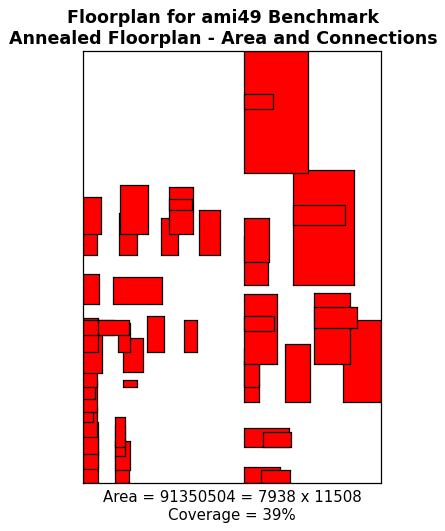
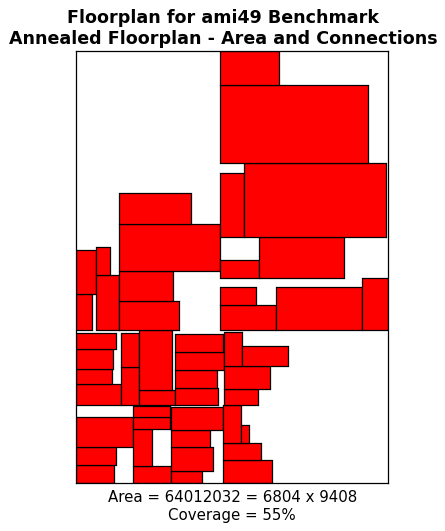
Run of final without flipnode.  Before performing long run.

diff --git a/annealer.py b/annealer.py
@@ -159,6 +159,7 @@ def updateSwapOperands(root,rectangles,dictionary):
 # METHOD 4: Randomly rotate left or right child
 def updateFlipNode(root,rectangles,dictionary):
 	newRoot = deepcopy(root)
+	#newRoot = root
 
 	r = random.randint(0,1)
 
@@ -166,6 +167,18 @@ def updateFlipNode(root,rectangles,dictionary):
 		utils.flipNode(newRoot.left)
 	elif newRoot.right is not None:
 		utils.flipNode(newRoot.right)
+
+	# Adjust parent node dimensions
+	if newRoot.type == '|':
+		newRoot.w = newRoot.left.w + newRoot.right.w
+		newRoot.h = max(newRoot.left.h,newRoot.right.h)
+	else:
+		newRoot.h = newRoot.left.h + newRoot.right.h
+		newRoot.w = max(newRoot.left.w,newRoot.right.w)
+
+	rectangles = utils.getRectanglesFromRoot(newRoot)
+	utils.resetRectangles(rectangles)
+	utils.updateTreeDimensions(newRoot)
 
 	return newRoot
 
@@ -179,7 +192,9 @@ def anneal(dataset, annealingParameters, cost, outputPrefix,scenario):
 
 	# Setup
 
-	updateMethods = [updateSolutionRandomChain,updateSolutionFitNode,updateSwapOperands,updateFlipNode]
+	updateMethods = [updateSolutionRandomChain,updateSwapOperands]
+	#updateMethods = [updateSolutionRandomChain,updateSwapOperands,updateFlipNode]
+	#updateMethods = [updateSolutionRandomChain,updateSolutionFitNode,updateSwapOperands,updateFlipNode]
 	#updateMethods = [updateSolutionRandomChain]
 	start = time.time()
 	(initialSolution, rectangles, dictionary, matrix) = initializeMatchPairs(dataset)

diff --git a/finalReport.py b/finalReport.py
@@ -8,8 +8,9 @@ import numpy as np
 from copy import copy, deepcopy
 import random
 
-annealingParameters = classes.AnnealingParameters(100,.85,5,.05,1,1)
-#annealingParameters = classes.AnnealingParameters(1000,.8,10,.01,1000,1)
+#annealingParameters = classes.AnnealingParameters(100,.85,5,.05,1,1) # For testing
+#annealingParameters = classes.AnnealingParameters(1000,.8,10,.01,1000,1) # For final
+annealingParameters = classes.AnnealingParameters(1000,.8,10,.01,1000,1) # For final (longer run)
 
 random.seed(1000) # Set seed so we can reproduce results
 
@@ -34,8 +35,8 @@ def analyzeAllBenchmarks():
 
 		anneal(dataset, annealingParameters,newCost,"Output/final_annealingNewCost_",'Annealed Floorplan - Area and Connections')
 
-	#alignImages.createImages('Output/initialMatchPairs_','Output/annealing_','Output/annealingNewCost_','Output/Comparison of Initial to Annealed (Area and All)_')
 
+	alignImages.createImagesForFinal('Output/final_annealing_','Output/final_annealingNewCost_','Output/Final Comparison_')
 
 
 

diff --git a/alignImages.py b/alignImages.py
@@ -41,3 +41,33 @@ def createImages(prefix1,prefix2,prefix3,outDescription):
 
 
 #createImages(prefix1,prefix2)
+
+def createImagesForFinal(prefix1,prefix2,outDescription):
+	suffix = '.png'
+	length = len(utils.benchmarks)
+	images = []
+
+	for i in range(length): #range(length):
+		dataset = utils.benchmarks[i]
+
+		img1 = mpimg.imread(prefix1+dataset+suffix)
+		img2 = mpimg.imread(prefix2+dataset+suffix)
+		
+
+		fig = plt.figure(i)
+		plt.subplot(1, 2,1)
+		imgplot1 = plt.imshow(img1)
+		plt.axis('off')
+
+		#plt.subplot(1, 2,2*i+2)
+		plt.subplot(1, 2,2)
+		imgplot2 = plt.imshow(img2)
+		plt.axis('off')
+
+
+		fig.savefig(outDescription + dataset + '.png',dpi=100)
+		#plt.show()
+
+		plt.close('all')
+
+#createImagesForFinal('Output/final_annealing_','Output/final_annealingNewCost_','Output/Final Comparison_')
